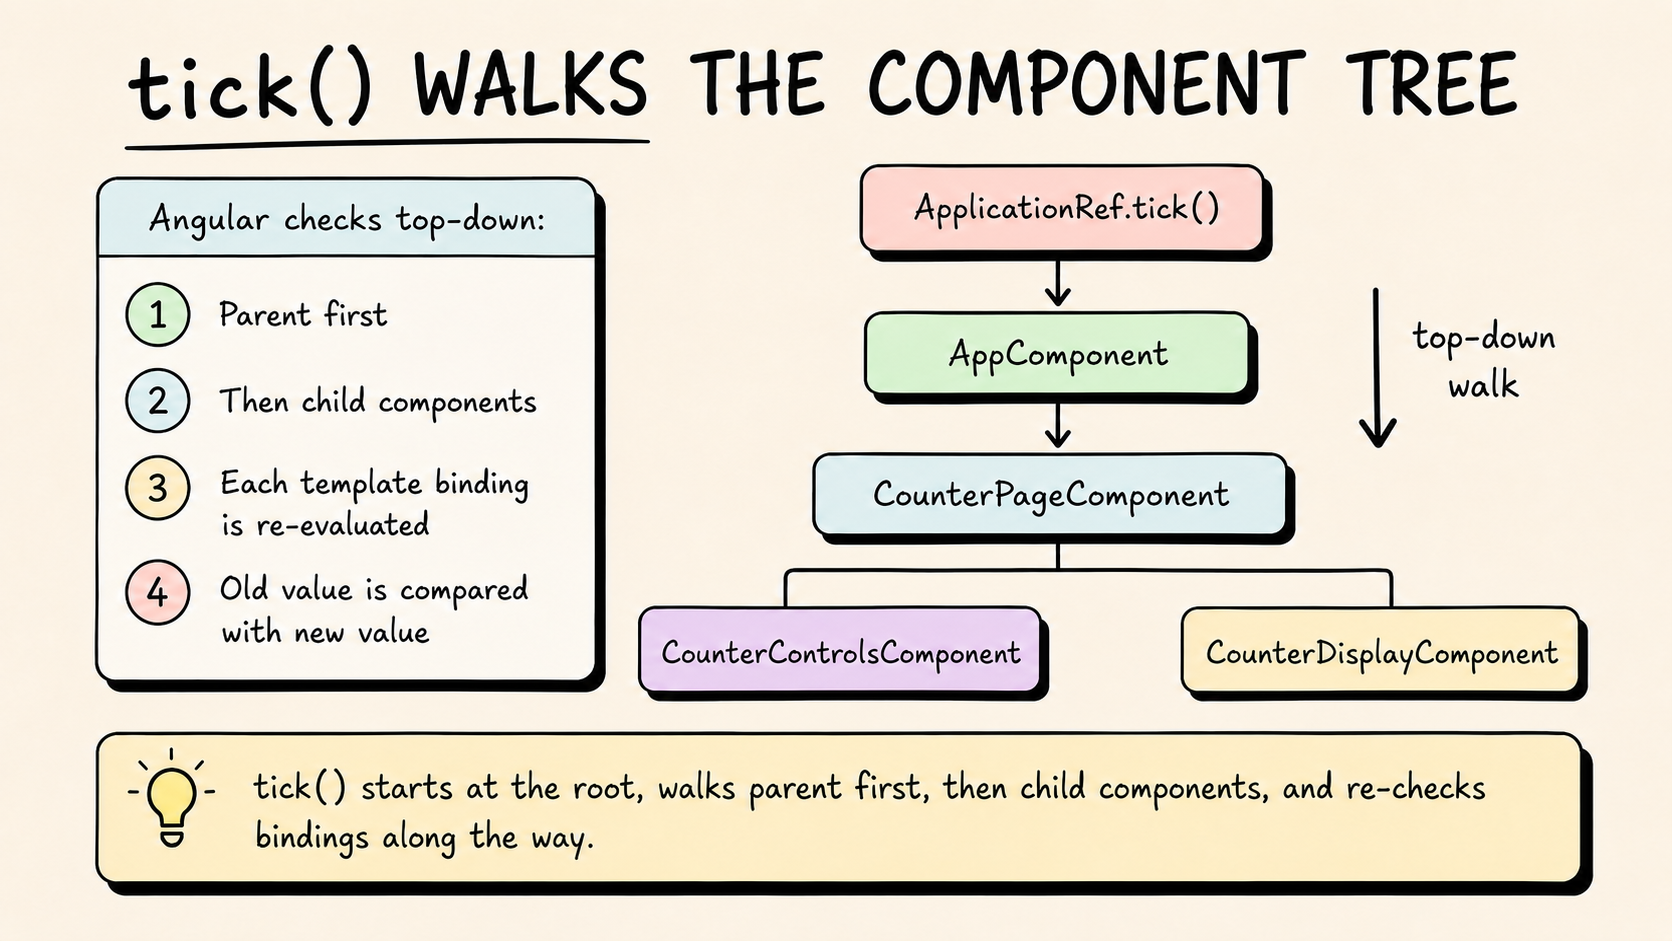
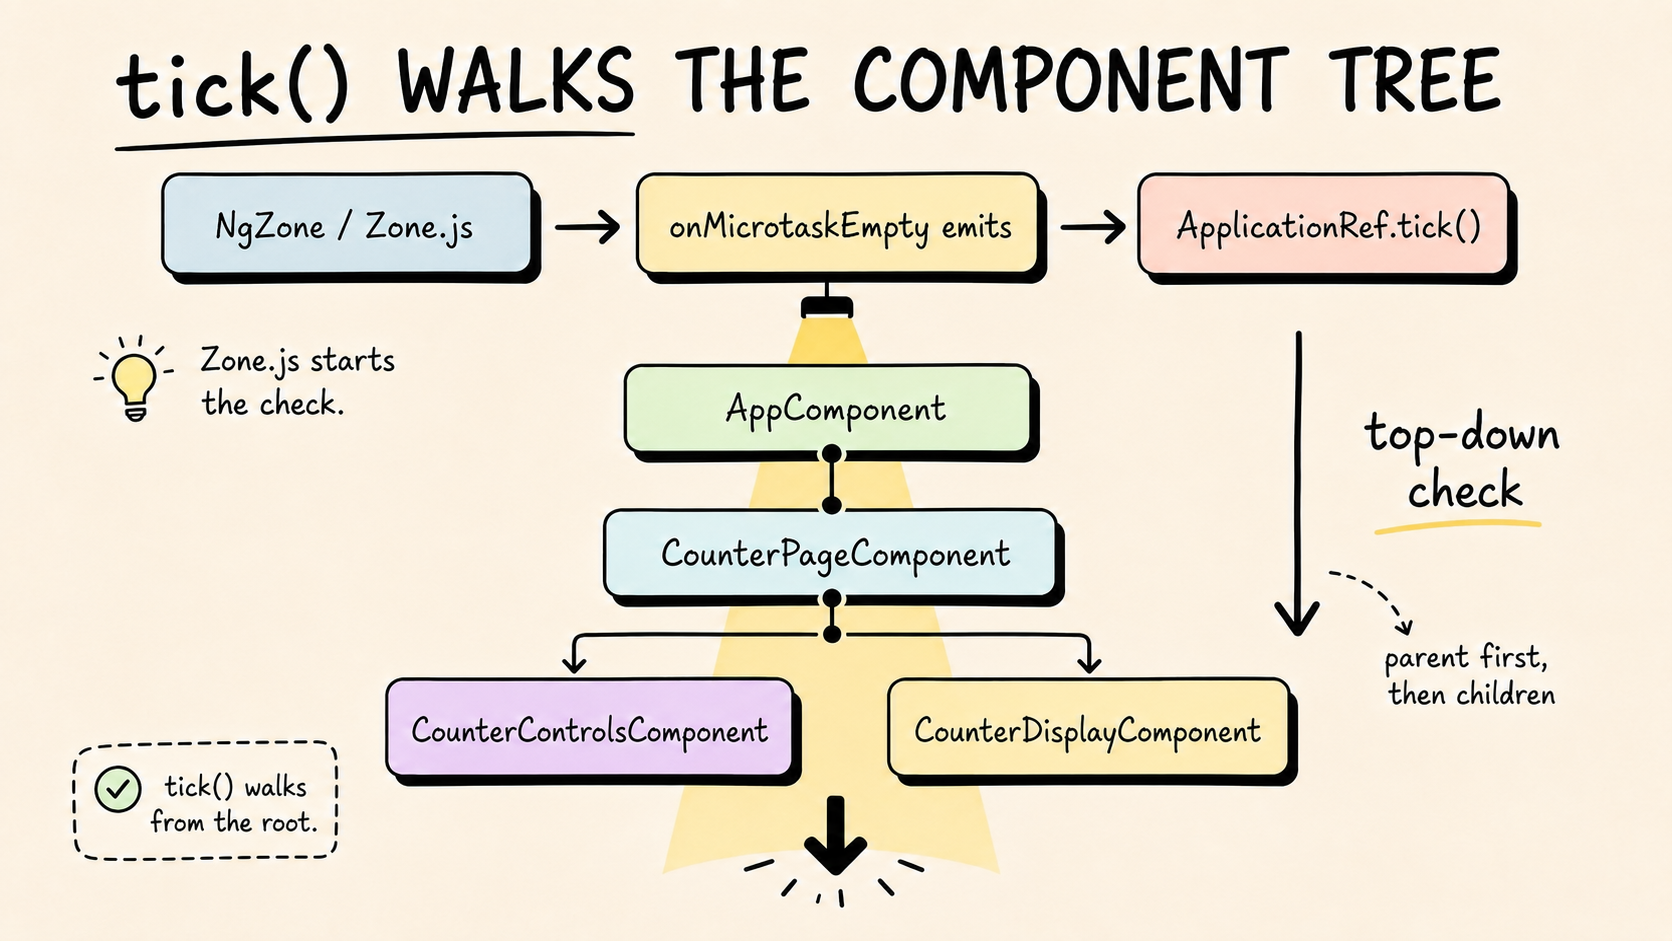
feat: update slide images and add new slide for template functions

diff --git a/src/app/slides.ts b/src/app/slides.ts
@@ -13,9 +13,10 @@ export const SLIDES: Slide[] = [
   { slug: 'what-is-change-detection', title: 'What Is Change Detection?', image: 'what-is-change-detection.png' },
   { slug: 'vanilla-js-state-does-not-update-the-ui', title: 'Vanilla JS: State Does Not Update the UI', image: 'vanilla-js-state-does-not-update-the-ui.png' },
   { slug: 'the-manual-render-problem', title: 'The Manual Render Problem', image: 'the-manual-render-problem.png' },
-  { slug: 'zone-js-let-me-call-angular-for-you', title: 'Zone.js: Let Me Call Angular For You', image: 'zone-js-let-me-call-angular-for-you.png' },
+  { slug: 'zonejs-let-me-call-angular-for-you', title: 'Zone.js: Let Me Call Angular For You', image: 'zonejs-let-me-call-angular-for-you.png' },
   { slug: 'from-something-happened-to-tick', title: 'From "Something Happened" to tick()', image: 'from-something-happened-to-tick.png' },
   { slug: 'tick-walks-the-component-tree', title: 'tick() Walks the Component Tree', image: 'tick-walks-the-component-tree.png' },
+  { slug: 'templateFn', title: 'Template Functions', image: 'templateFn.png' },
   { slug: 'every-binding-has-memory', title: 'Every Binding Has Memory', image: 'every-binding-has-memory.png' },
   { slug: 'the-binding-check', title: 'The Binding Check', image: 'the-binding-check.png' },
   { slug: 'dev-mode-double-check-stability', title: 'Dev Mode Double Checks Stability', image: 'dev-mode-double-check-stability.png' },